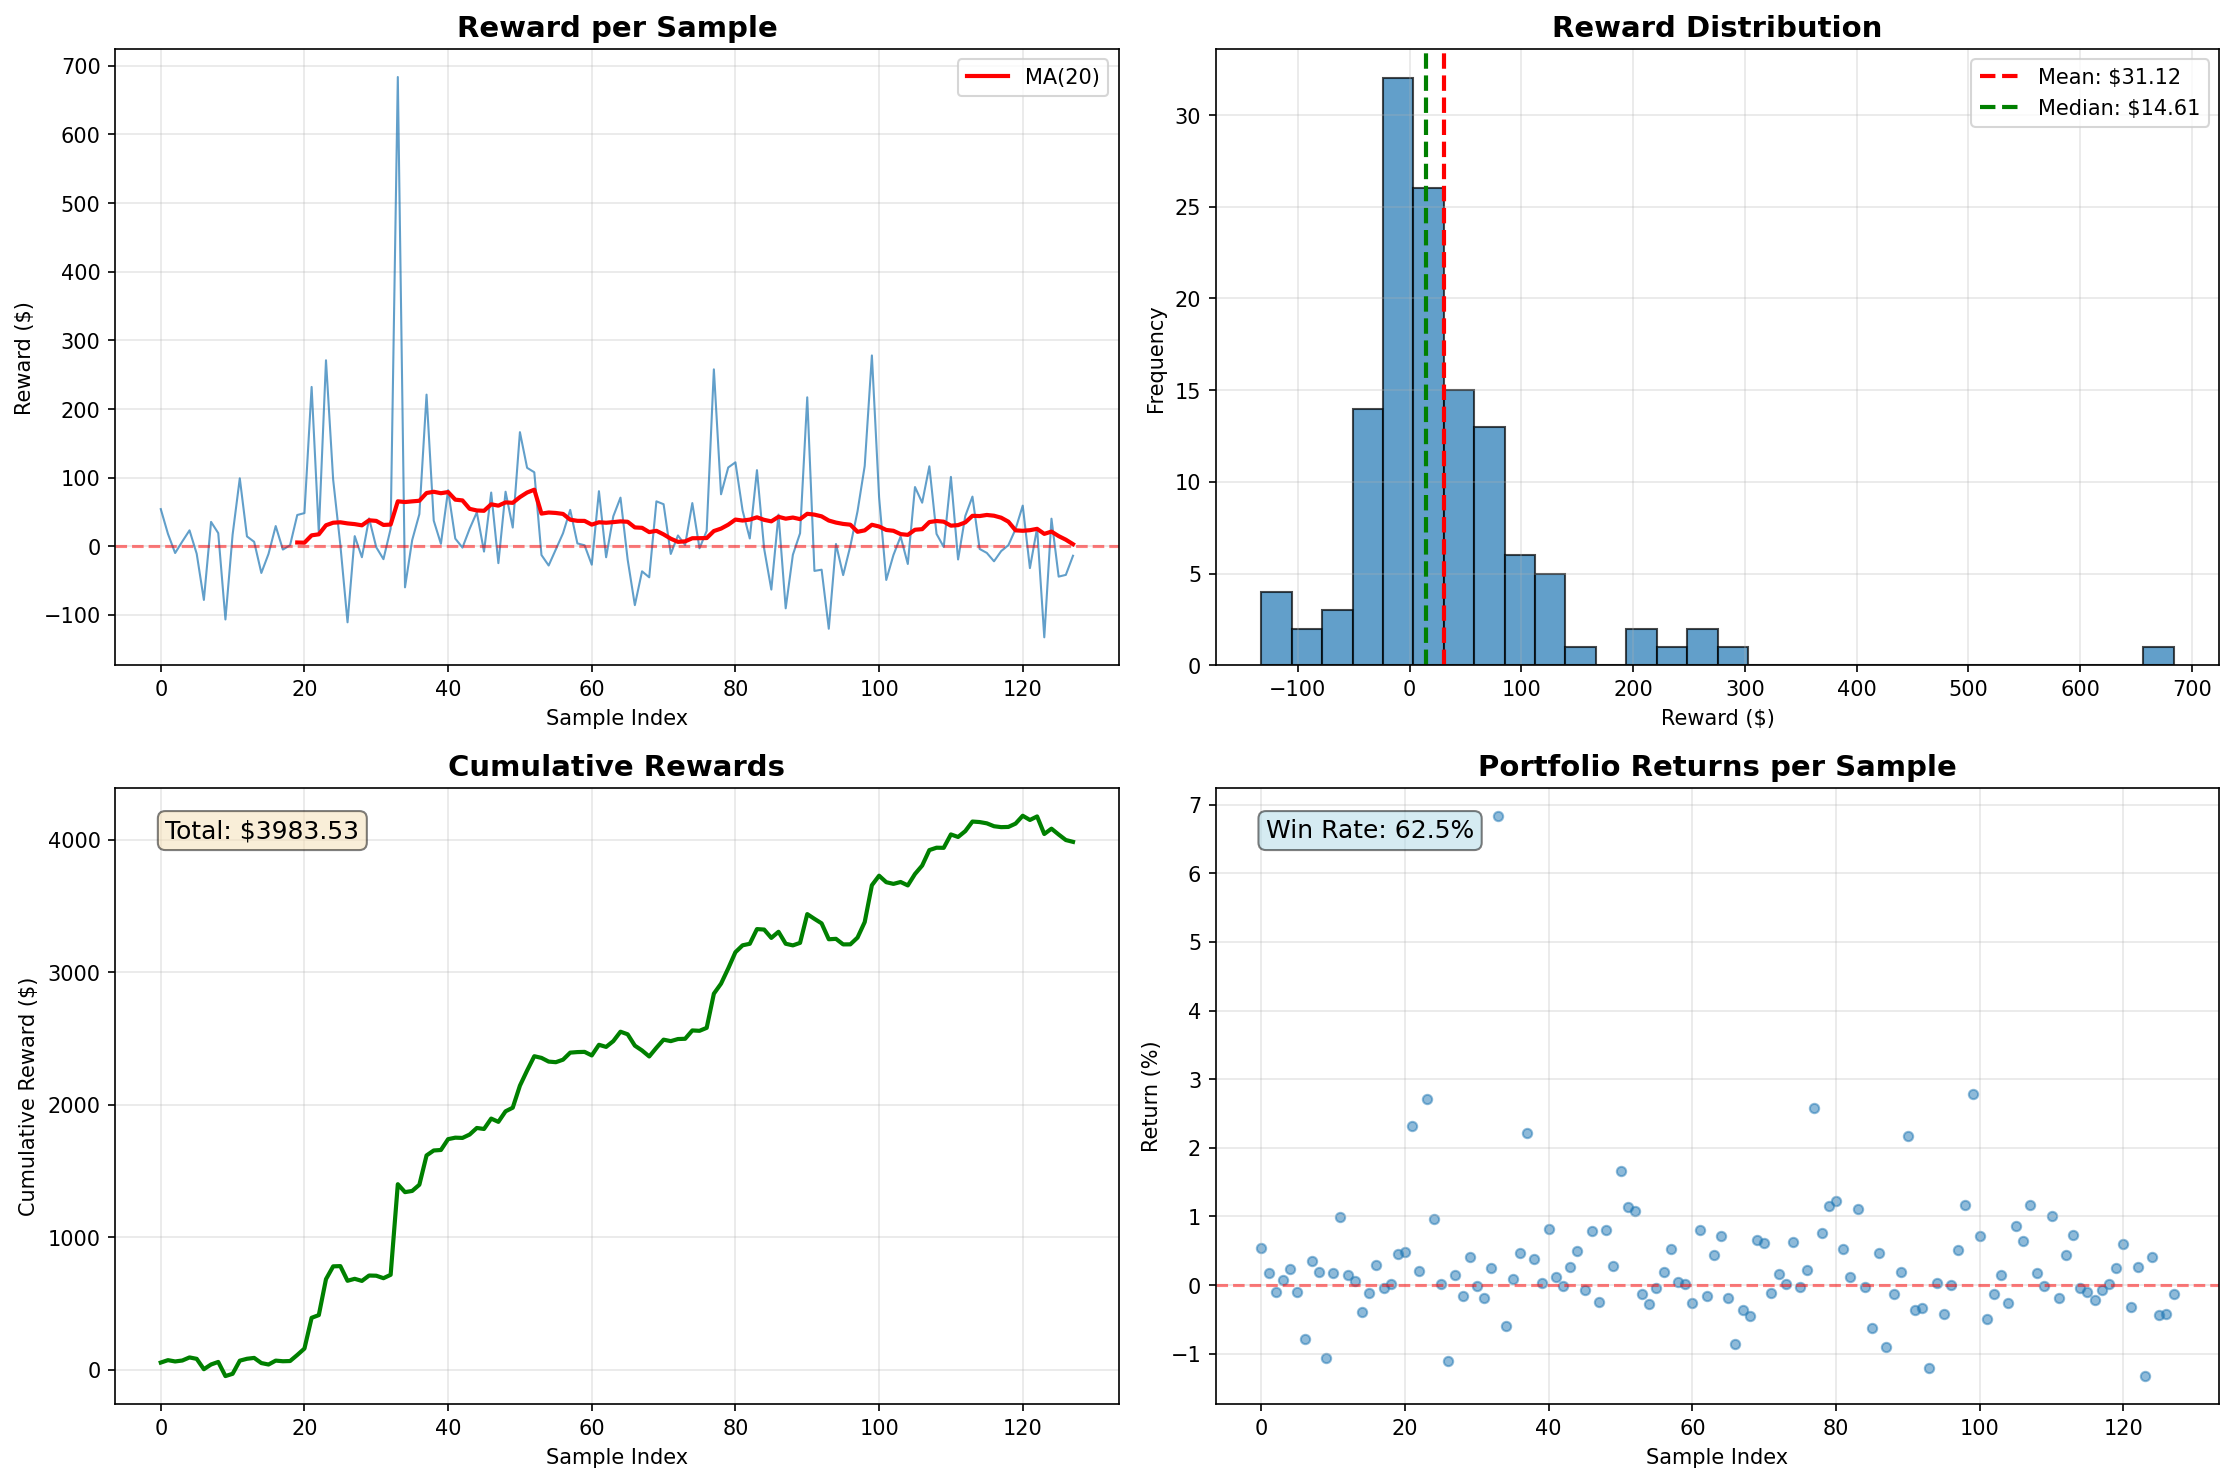
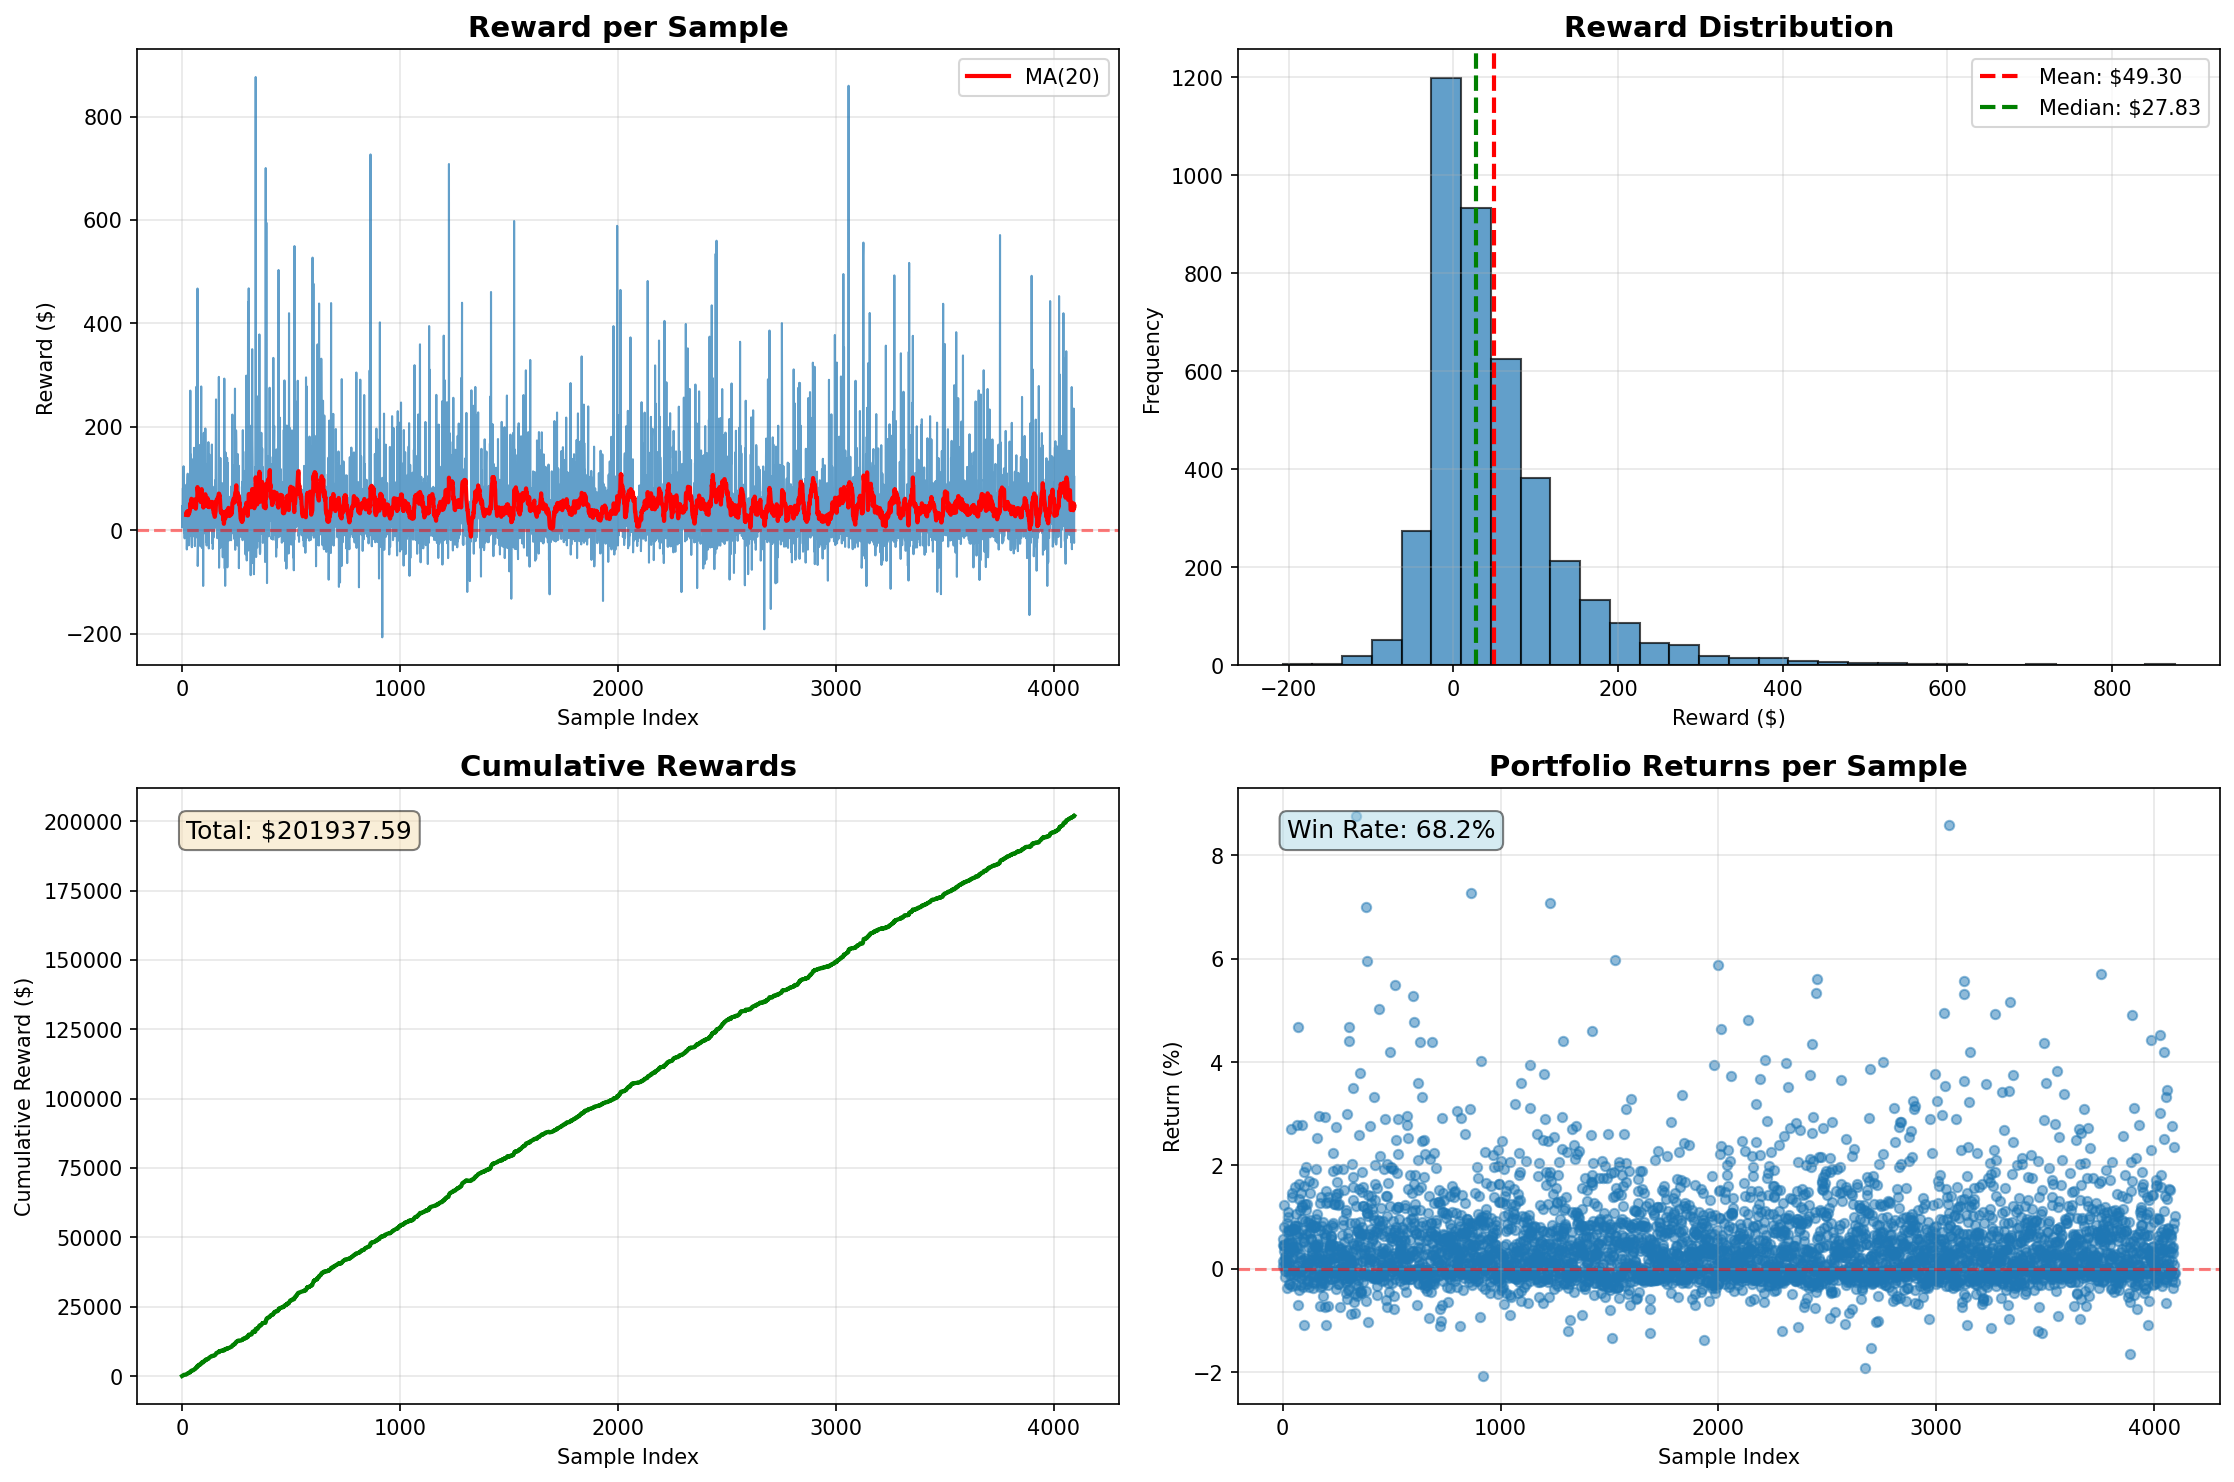
todo

diff --git a/generate_optimal_data.py b/generate_optimal_data.py
@@ -4,14 +4,22 @@ import os
 from portfolio_env import PortfolioEnv
 import matplotlib.pyplot as plt
 from tqdm import tqdm
+import threading
+import time
+import random
+import string
 
 DEBUG = True
-DEBUG_SAMPLES = 128
+DEBUG_SAMPLES = 4096
 N_SAMPLES = 1000
-N_CANDIDATES = 16
+N_CANDIDATES = 24
 N_REFINEMENT_ITERATIONS = 5
-REFINEMENT_SAMPLES_PER_ITERATION = 8
-OUTPUT_FILE = 'optimal_dataset.pkl'
+REFINEMENT_SAMPLES_PER_ITERATION = 12
+NUM_OF_THREADS = 2
+OUTPUT_FOLDER = "syntheticData"
+
+def generate_random_string(length=8):
+    return ''.join(random.choices(string.ascii_lowercase + string.ascii_uppercase + string.digits, k=length))
 
 class GradientOptimalActionFinder:
     def __init__(self, env, n_candidates=16, n_refinement_iterations=3, refinement_samples=8):
@@ -146,29 +154,37 @@ def load_all_samples(filepath):
     return samples
 
 
-def generate_optimal_dataset(n_samples=N_SAMPLES, output_file=OUTPUT_FILE, debug=DEBUG, n_candidates=N_CANDIDATES, n_refinement_iterations=N_REFINEMENT_ITERATIONS, refinement_samples=REFINEMENT_SAMPLES_PER_ITERATION):
+def generate_optimal_dataset(n_samples=N_SAMPLES, output_file=None, debug=DEBUG, n_candidates=N_CANDIDATES, n_refinement_iterations=N_REFINEMENT_ITERATIONS, refinement_samples=REFINEMENT_SAMPLES_PER_ITERATION, thread_id=None):
+    if output_file is None:
+        if not os.path.exists(OUTPUT_FOLDER):
+            os.makedirs(OUTPUT_FOLDER)
+        random_str = generate_random_string()
+        output_file = os.path.join(OUTPUT_FOLDER, f'data_{random_str}.pkl')
+    
+    thread_prefix = f"[Thread {thread_id}] " if thread_id is not None else ""
+    
     if debug:
         n_samples = DEBUG_SAMPLES
-        print(f"DEBUG MODE: Generating only {n_samples} samples")
+        print(f"{thread_prefix}DEBUG MODE: Generating only {n_samples} samples")
     
     env = PortfolioEnv()
     optimizer = GradientOptimalActionFinder(env, n_candidates=n_candidates, n_refinement_iterations=n_refinement_iterations, refinement_samples=refinement_samples)
     
     if os.path.exists(output_file):
         existing_samples = load_all_samples(output_file)
-        print(f"Found {len(existing_samples)} existing samples in {output_file}")
+        print(f"{thread_prefix}Found {len(existing_samples)} existing samples in {output_file}")
         start_idx = len(existing_samples)
     else:
         start_idx = 0
-        print(f"Creating new dataset: {output_file}")
+        print(f"{thread_prefix}Creating new dataset: {output_file}")
     
     rewards_history = []
     portfolio_values = []
     
     total_evaluations = n_candidates + (n_refinement_iterations * refinement_samples)
-    print(f"\nGenerating {n_samples} optimal action samples...")
-    print(f"Each sample: {n_candidates} initial candidates + {n_refinement_iterations} refinement iterations ({refinement_samples} samples each)")
-    print(f"Total evaluations per sample: {total_evaluations}")
+    print(f"\n{thread_prefix}Generating {n_samples} optimal action samples...")
+    print(f"{thread_prefix}Each sample: {n_candidates} initial candidates + {n_refinement_iterations} refinement iterations ({refinement_samples} samples each)")
+    print(f"{thread_prefix}Total evaluations per sample: {total_evaluations}")
     
     for i in tqdm(range(n_samples)):
         obs = env.reset()
@@ -193,16 +209,17 @@ def generate_optimal_dataset(n_samples=N_SAMPLES, output_file=OUTPUT_FILE, debug
         portfolio_values.append(info['portfolio_value'])
         
         if debug and (i + 1) % 10 == 0:
+            thread_prefix = f"[Thread {thread_id}] " if thread_id is not None else ""
             avg_reward = np.mean(rewards_history[-10:])
-            print(f"\nSample {i+1}/{n_samples}: Reward={actual_reward:.2f}, Avg(10)={avg_reward:.2f}")
+            print(f"\n{thread_prefix}Sample {i+1}/{n_samples}: Reward={actual_reward:.2f}, Avg(10)={avg_reward:.2f}")
     
-    print(f"\n✓ Generated {n_samples} samples")
-    print(f"✓ Saved to {output_file}")
-    print(f"  Total samples in file: {start_idx + n_samples}")
-    print(f"  Average reward: ${np.mean(rewards_history):.2f}")
-    print(f"  Min reward: ${np.min(rewards_history):.2f}")
-    print(f"  Max reward: ${np.max(rewards_history):.2f}")
-    print(f"  Std reward: ${np.std(rewards_history):.2f}")
+    print(f"\n{thread_prefix} Generated {n_samples} samples")
+    print(f"{thread_prefix} Saved to {output_file}")
+    print(f"{thread_prefix}  Total samples in file: {start_idx + n_samples}")
+    print(f"{thread_prefix}  Average reward: ${np.mean(rewards_history):.2f}")
+    print(f"{thread_prefix}  Min reward: ${np.min(rewards_history):.2f}")
+    print(f"{thread_prefix}  Max reward: ${np.max(rewards_history):.2f}")
+    print(f"{thread_prefix}  Std reward: ${np.std(rewards_history):.2f}")
     
     if debug:
         plot_debug_statistics(rewards_history, portfolio_values, output_file)
@@ -272,7 +289,7 @@ def plot_debug_statistics(rewards_history, portfolio_values, output_file):
     
     plot_filename = output_file.replace('.pkl', '_debug_plot.png')
     plt.savefig(plot_filename, dpi=150, bbox_inches='tight')
-    print(f"\n✓ Saved visualization to {plot_filename}")
+    print(f"\n Saved visualization to {plot_filename}")
     
     print("\nStrategy Statistics:")
     print(f"  Win Rate: {win_rate:.2f}%")
@@ -283,16 +300,52 @@ def plot_debug_statistics(rewards_history, portfolio_values, output_file):
     print(f"  Sharpe Ratio (approx): {np.mean(rewards_history) / (np.std(rewards_history) + 1e-8):.3f}")
     
     if final_cumulative > 0:
-        print(f"\n✓ STRATEGY IS PROFITABLE (${final_cumulative:.2f} cumulative)")
+        print(f"\n STRATEGY IS PROFITABLE (${final_cumulative:.2f} cumulative)")
     else:
-        print(f"\n✗ STRATEGY IS NOT PROFITABLE (${final_cumulative:.2f} cumulative)")
+        print(f"\n STRATEGY IS NOT PROFITABLE (${final_cumulative:.2f} cumulative)")
     
     plt.show()
 
 
+def thread_worker(thread_id, n_samples):
+    print(f"[Thread {thread_id}] Starting...")
+    rewards, portfolio_values = generate_optimal_dataset(
+        n_samples=n_samples,
+        thread_id=thread_id
+    )
+    print(f"[Thread {thread_id}] Completed!")
+    return rewards, portfolio_values
+
+
 if __name__ == "__main__":
-    rewards, portfolio_values = generate_optimal_dataset()
-    
-    print("\n" + "="*60)
-    print("Dataset generation complete!")
-    print("="*60)
+    if NUM_OF_THREADS > 1:
+        if not os.path.exists(OUTPUT_FOLDER):
+            os.makedirs(OUTPUT_FOLDER)
+        
+        samples_per_thread = N_SAMPLES // NUM_OF_THREADS
+        threads = []
+        
+        print(f"\nStarting {NUM_OF_THREADS} threads, {samples_per_thread} samples each...")
+        print(f"Total samples: {NUM_OF_THREADS * samples_per_thread}")
+        print(f"Output folder: {OUTPUT_FOLDER}\n")
+        
+        start_time = time.time()
+        
+        for i in range(NUM_OF_THREADS):
+            thread = threading.Thread(target=thread_worker, args=(i, samples_per_thread))
+            threads.append(thread)
+            thread.start()
+        
+        for thread in threads:
+            thread.join()
+        
+        elapsed_time = time.time() - start_time
+        print(f"\n{'='*60}")
+        print(f"All threads completed in {elapsed_time:.2f} seconds")
+        print(f"{'='*60}")
+    else:
+        rewards, portfolio_values = generate_optimal_dataset()
+        
+        print("\n" + "="*60)
+        print("Dataset generation complete!")
+        print("="*60)
